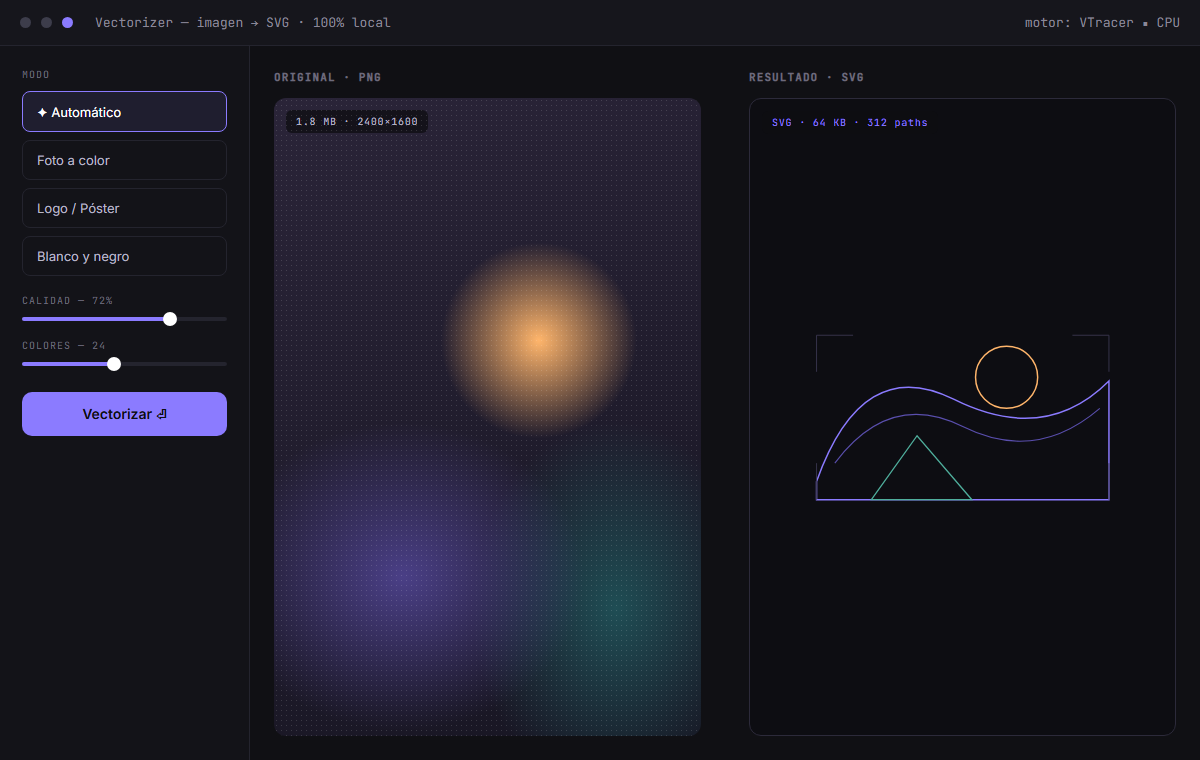
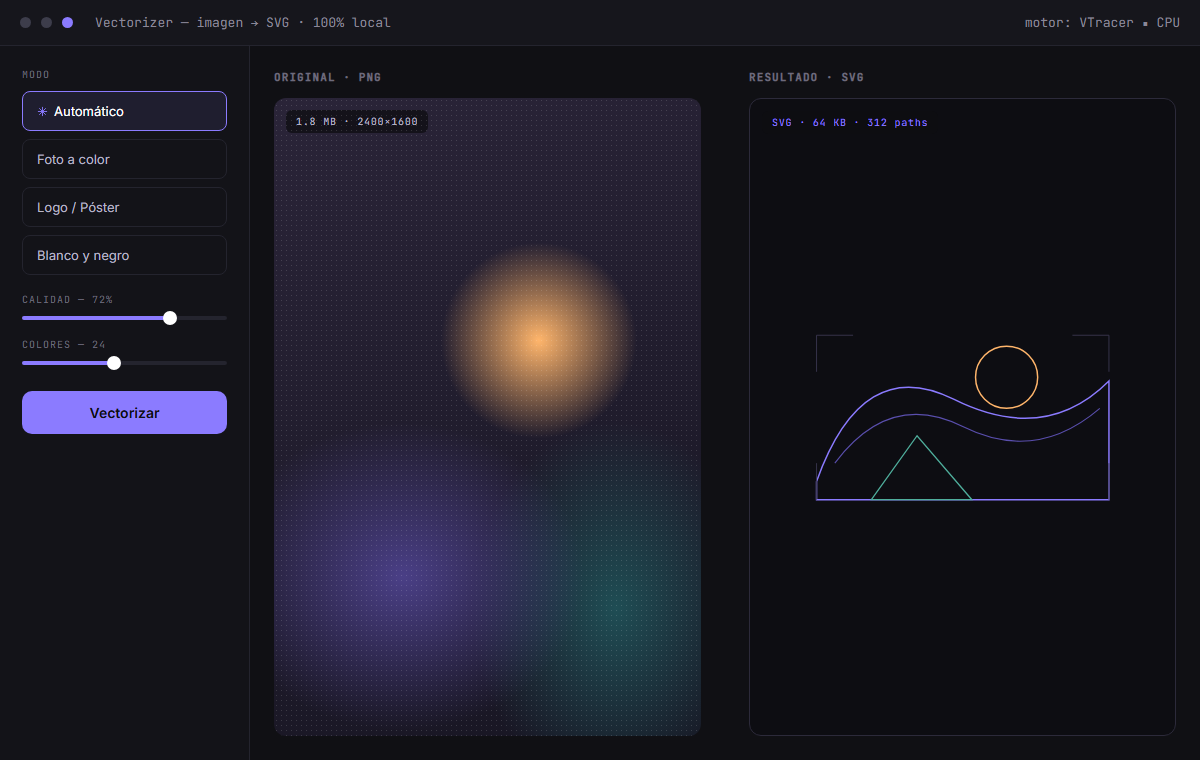
Sin emojis: iconos SVG inline en marquees, flechas y thumbnails
- Separadores de marquee, flechas de CTA/filas/footer y enlaces externos
  ahora son SVG stroke currentColor (nítidos y del color correcto en
  cualquier plataforma)
- Thumbnails de Partido en Vivo y Vectorizer regenerados sin emojis
  (balón y tarjeta como SVG, iconos de la UI vectoriales)
- Etiqueta del cursor y feedback de copiado sin glifos

diff --git a/css/styles.css b/css/styles.css
@@ -70,6 +70,14 @@ sup { font-size: 0.55em; color: var(--violet); }
   outline-offset: 4px;
 }
 
+/* Iconos SVG inline */
+.icon {
+  width: 0.85em;
+  height: 0.85em;
+  display: inline-block;
+  vertical-align: -0.06em;
+}
+
 .mono {
   font-family: var(--font-mono);
   font-size: 12px;
@@ -384,6 +392,12 @@ html.js.pre-done .preloader { display: none; }
   color: var(--violet);
   padding: 0 0.5em;
 }
+.marquee-track i svg {
+  width: 0.62em;
+  height: 0.62em;
+  display: inline-block;
+  vertical-align: -0.02em;
+}
 @keyframes marquee {
   to { transform: translateX(-50%); }
 }
@@ -487,11 +501,15 @@ a.work-row:hover::before { opacity: 1; }
 
 .work-arrow {
   display: inline-block;
-  font-size: 0.6em;
   color: var(--violet);
   margin-left: 12px;
   transform: translate(0, 2px);
   transition: transform 0.35s var(--ease-out);
+}
+.work-arrow svg {
+  width: 0.52em;
+  height: 0.52em;
+  display: block;
 }
 a.work-row:hover .work-arrow { transform: translate(6px, -4px); }
 

diff --git a/index.html b/index.html
@@ -77,7 +77,7 @@
         <div class="hero-side mask">
           <span class="mask-inner">
             <span class="avail"><span class="avail-dot" aria-hidden="true"></span>Disponible para proyectos</span>
-            <a class="hero-cta" href="#trabajo" data-magnetic>Ver trabajo <span aria-hidden="true">↓</span></a>
+            <a class="hero-cta" href="#trabajo" data-magnetic>Ver trabajo <span aria-hidden="true"><svg class="icon" viewBox="0 0 24 24" fill="none" stroke="currentColor" stroke-width="2"><path d="M12 4v15M5.5 12.5L12 19l6.5-6.5"/></svg></span></a>
           </span>
         </div>
       </div>
@@ -86,7 +86,7 @@
     <!-- ============ MARQUEE ============ -->
     <div class="marquee" aria-hidden="true">
       <div class="marquee-track">
-        <span>Telegram <i>✳</i> WhatsApp <i>✳</i> Discord <i>✳</i> Stripe <i>✳</i> Python <i>✳</i> Node.js <i>✳</i> Automatización <i>✳</i> Web <i>✳</i> </span><span>Telegram <i>✳</i> WhatsApp <i>✳</i> Discord <i>✳</i> Stripe <i>✳</i> Python <i>✳</i> Node.js <i>✳</i> Automatización <i>✳</i> Web <i>✳</i> </span>
+        <span>Telegram <i><svg viewBox="0 0 24 24"><path d="M12 2v20M2 12h20M4.9 4.9l14.2 14.2M19.1 4.9L4.9 19.1" stroke="currentColor" stroke-width="1.8"/></svg></i> WhatsApp <i><svg viewBox="0 0 24 24"><path d="M12 2v20M2 12h20M4.9 4.9l14.2 14.2M19.1 4.9L4.9 19.1" stroke="currentColor" stroke-width="1.8"/></svg></i> Discord <i><svg viewBox="0 0 24 24"><path d="M12 2v20M2 12h20M4.9 4.9l14.2 14.2M19.1 4.9L4.9 19.1" stroke="currentColor" stroke-width="1.8"/></svg></i> Stripe <i><svg viewBox="0 0 24 24"><path d="M12 2v20M2 12h20M4.9 4.9l14.2 14.2M19.1 4.9L4.9 19.1" stroke="currentColor" stroke-width="1.8"/></svg></i> Python <i><svg viewBox="0 0 24 24"><path d="M12 2v20M2 12h20M4.9 4.9l14.2 14.2M19.1 4.9L4.9 19.1" stroke="currentColor" stroke-width="1.8"/></svg></i> Node.js <i><svg viewBox="0 0 24 24"><path d="M12 2v20M2 12h20M4.9 4.9l14.2 14.2M19.1 4.9L4.9 19.1" stroke="currentColor" stroke-width="1.8"/></svg></i> Automatización <i><svg viewBox="0 0 24 24"><path d="M12 2v20M2 12h20M4.9 4.9l14.2 14.2M19.1 4.9L4.9 19.1" stroke="currentColor" stroke-width="1.8"/></svg></i> Web <i><svg viewBox="0 0 24 24"><path d="M12 2v20M2 12h20M4.9 4.9l14.2 14.2M19.1 4.9L4.9 19.1" stroke="currentColor" stroke-width="1.8"/></svg></i> </span><span>Telegram <i><svg viewBox="0 0 24 24"><path d="M12 2v20M2 12h20M4.9 4.9l14.2 14.2M19.1 4.9L4.9 19.1" stroke="currentColor" stroke-width="1.8"/></svg></i> WhatsApp <i><svg viewBox="0 0 24 24"><path d="M12 2v20M2 12h20M4.9 4.9l14.2 14.2M19.1 4.9L4.9 19.1" stroke="currentColor" stroke-width="1.8"/></svg></i> Discord <i><svg viewBox="0 0 24 24"><path d="M12 2v20M2 12h20M4.9 4.9l14.2 14.2M19.1 4.9L4.9 19.1" stroke="currentColor" stroke-width="1.8"/></svg></i> Stripe <i><svg viewBox="0 0 24 24"><path d="M12 2v20M2 12h20M4.9 4.9l14.2 14.2M19.1 4.9L4.9 19.1" stroke="currentColor" stroke-width="1.8"/></svg></i> Python <i><svg viewBox="0 0 24 24"><path d="M12 2v20M2 12h20M4.9 4.9l14.2 14.2M19.1 4.9L4.9 19.1" stroke="currentColor" stroke-width="1.8"/></svg></i> Node.js <i><svg viewBox="0 0 24 24"><path d="M12 2v20M2 12h20M4.9 4.9l14.2 14.2M19.1 4.9L4.9 19.1" stroke="currentColor" stroke-width="1.8"/></svg></i> Automatización <i><svg viewBox="0 0 24 24"><path d="M12 2v20M2 12h20M4.9 4.9l14.2 14.2M19.1 4.9L4.9 19.1" stroke="currentColor" stroke-width="1.8"/></svg></i> Web <i><svg viewBox="0 0 24 24"><path d="M12 2v20M2 12h20M4.9 4.9l14.2 14.2M19.1 4.9L4.9 19.1" stroke="currentColor" stroke-width="1.8"/></svg></i> </span>
       </div>
     </div>
 
@@ -112,7 +112,7 @@
           <p class="work-num mono">001</p>
           <div class="work-main">
             <figure class="work-thumb"><img src="img/work-ofertas.png" alt="Landing del Bot de Ofertas" loading="lazy"></figure>
-            <h3>Bot de Ofertas ML<span class="work-arrow" aria-hidden="true">↗</span></h3>
+            <h3>Bot de Ofertas ML<span class="work-arrow" aria-hidden="true"><svg viewBox="0 0 24 24" fill="none" stroke="currentColor" stroke-width="2.2"><path d="M6.5 17.5L17.5 6.5M8.5 6.5h9v9"/></svg></span></h3>
             <p class="work-desc">
               Producto comercial completo: detecta ofertas reales en MercadoLibre y las envía por
               Telegram y WhatsApp. Licencias flotantes, cobro con Stripe, entrega automática
@@ -164,7 +164,7 @@
           <p class="work-num mono">004</p>
           <div class="work-main">
             <figure class="work-thumb"><img src="img/work-vanidosa.png" alt="Sitio web de Vanidosa" loading="lazy"></figure>
-            <h3>Vanidosa<span class="work-arrow" aria-hidden="true">↗</span></h3>
+            <h3>Vanidosa<span class="work-arrow" aria-hidden="true"><svg viewBox="0 0 24 24" fill="none" stroke="currentColor" stroke-width="2.2"><path d="M6.5 17.5L17.5 6.5M8.5 6.5h9v9"/></svg></span></h3>
             <p class="work-desc">
               Sitio web completo para un salón de belleza: catálogo de servicios, diseño responsivo
               y enfoque en convertir visitas en citas.
@@ -186,7 +186,7 @@
         <img data-key="vanidosa" src="img/work-vanidosa.png" alt="">
       </div>
 
-      <p class="section-foot mono" data-reveal>Más experimentos → <a href="https://github.com/devkazuo27" target="_blank" rel="noopener" data-scramble>github.com/devkazuo27</a></p>
+      <p class="section-foot mono" data-reveal>Más experimentos <svg class="icon" viewBox="0 0 24 24" fill="none" stroke="currentColor" stroke-width="2" aria-hidden="true"><path d="M4 12h15M13 5.5l6.5 6.5-6.5 6.5"/></svg> <a href="https://github.com/devkazuo27" target="_blank" rel="noopener" data-scramble>github.com/devkazuo27</a></p>
     </section>
 
     <!-- ============ SERVICIOS ============ -->
@@ -289,7 +289,7 @@
     <!-- ============ MARQUEE 2 ============ -->
     <div class="marquee marquee-rev" aria-hidden="true">
       <div class="marquee-track">
-        <span>Hablemos <i>✳</i> Tu idea, en producción <i>✳</i> Hablemos <i>✳</i> Tu idea, en producción <i>✳</i> </span><span>Hablemos <i>✳</i> Tu idea, en producción <i>✳</i> Hablemos <i>✳</i> Tu idea, en producción <i>✳</i> </span>
+        <span>Hablemos <i><svg viewBox="0 0 24 24"><path d="M12 2v20M2 12h20M4.9 4.9l14.2 14.2M19.1 4.9L4.9 19.1" stroke="currentColor" stroke-width="1.8"/></svg></i> Tu idea, en producción <i><svg viewBox="0 0 24 24"><path d="M12 2v20M2 12h20M4.9 4.9l14.2 14.2M19.1 4.9L4.9 19.1" stroke="currentColor" stroke-width="1.8"/></svg></i> Hablemos <i><svg viewBox="0 0 24 24"><path d="M12 2v20M2 12h20M4.9 4.9l14.2 14.2M19.1 4.9L4.9 19.1" stroke="currentColor" stroke-width="1.8"/></svg></i> Tu idea, en producción <i><svg viewBox="0 0 24 24"><path d="M12 2v20M2 12h20M4.9 4.9l14.2 14.2M19.1 4.9L4.9 19.1" stroke="currentColor" stroke-width="1.8"/></svg></i> </span><span>Hablemos <i><svg viewBox="0 0 24 24"><path d="M12 2v20M2 12h20M4.9 4.9l14.2 14.2M19.1 4.9L4.9 19.1" stroke="currentColor" stroke-width="1.8"/></svg></i> Tu idea, en producción <i><svg viewBox="0 0 24 24"><path d="M12 2v20M2 12h20M4.9 4.9l14.2 14.2M19.1 4.9L4.9 19.1" stroke="currentColor" stroke-width="1.8"/></svg></i> Hablemos <i><svg viewBox="0 0 24 24"><path d="M12 2v20M2 12h20M4.9 4.9l14.2 14.2M19.1 4.9L4.9 19.1" stroke="currentColor" stroke-width="1.8"/></svg></i> Tu idea, en producción <i><svg viewBox="0 0 24 24"><path d="M12 2v20M2 12h20M4.9 4.9l14.2 14.2M19.1 4.9L4.9 19.1" stroke="currentColor" stroke-width="1.8"/></svg></i> </span>
       </div>
     </div>
 
@@ -319,13 +319,13 @@
       <div class="footer-col">
         <p class="mono footer-label">Contacto</p>
         <a class="mono" href="mailto:[email redacted]">[email redacted]</a>
-        <a class="mono" href="https://github.com/devkazuo27" target="_blank" rel="noopener" data-scramble>GitHub ↗</a>
+        <a class="mono" href="https://github.com/devkazuo27" target="_blank" rel="noopener"><span data-scramble>GitHub</span> <svg class="icon" viewBox="0 0 24 24" fill="none" stroke="currentColor" stroke-width="2" aria-hidden="true"><path d="M6.5 17.5L17.5 6.5M8.5 6.5h9v9"/></svg></a>
       </div>
       <div class="footer-col footer-colofon">
         <p class="mono footer-label">Colofón</p>
         <p class="mono">© <span id="year">2026</span> — Hecho a mano, sin plantillas</p>
         <p class="mono">México · <span class="js-clock">--:--</span> GMT-6</p>
-        <a class="mono" href="#top" data-scramble>Volver arriba ↑</a>
+        <a class="mono" href="#top"><span data-scramble>Volver arriba</span> <svg class="icon" viewBox="0 0 24 24" fill="none" stroke="currentColor" stroke-width="2" aria-hidden="true"><path d="M12 20V5M5.5 11.5L12 5l6.5 6.5"/></svg></a>
       </div>
     </div>
     <p class="footer-giant" aria-hidden="true">NAREN&nbsp;SÁNCHEZ<span class="footer-dot">®</span></p>

diff --git a/js/main.js b/js/main.js
@@ -30,7 +30,7 @@ const copyBtn = document.getElementById("copy-mail");
 copyBtn.addEventListener("click", async () => {
   try {
     await navigator.clipboard.writeText("[email redacted]");
-    copyBtn.textContent = "[ copiado ✓ ]";
+    copyBtn.textContent = "[ listo ]";
   } catch {
     copyBtn.textContent = "[ ctrl+c ]";
   }
@@ -269,7 +269,7 @@ if (animOK) {
       const interactive = e.target.closest("a, button");
       ring.classList.toggle("is-label", !!labelTarget);
       ring.classList.toggle("is-hover", !!interactive && !labelTarget);
-      ringLabel.textContent = labelTarget ? "VER ↗" : "";
+      ringLabel.textContent = labelTarget ? "VER" : "";
     });
   }
 